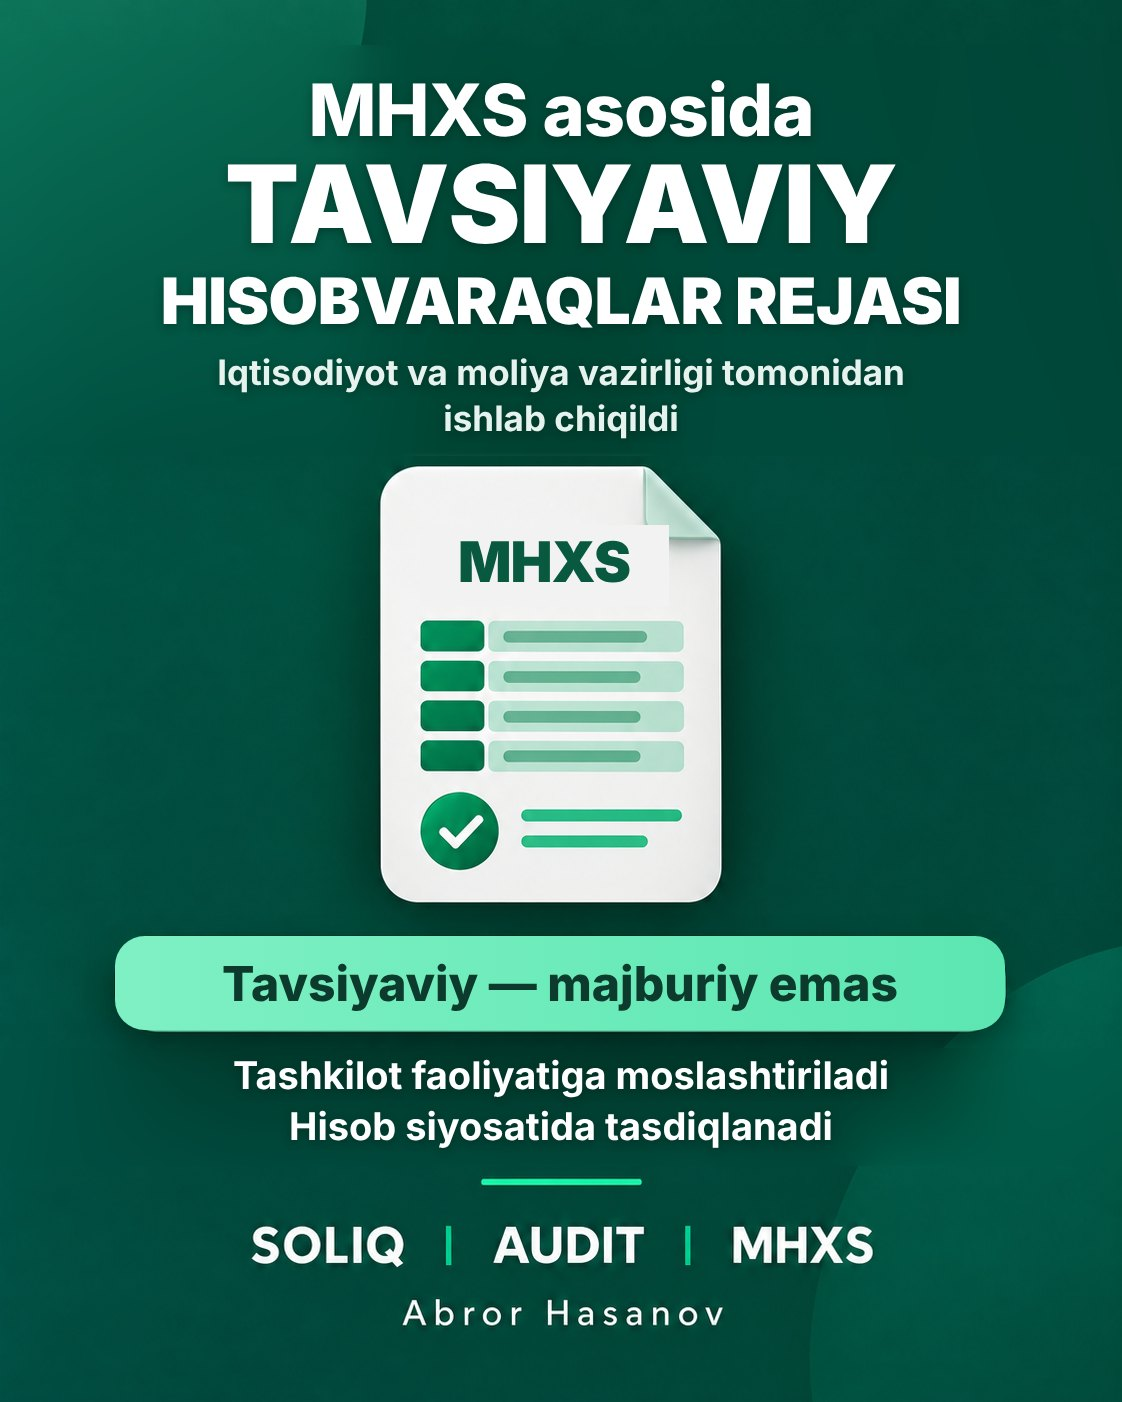
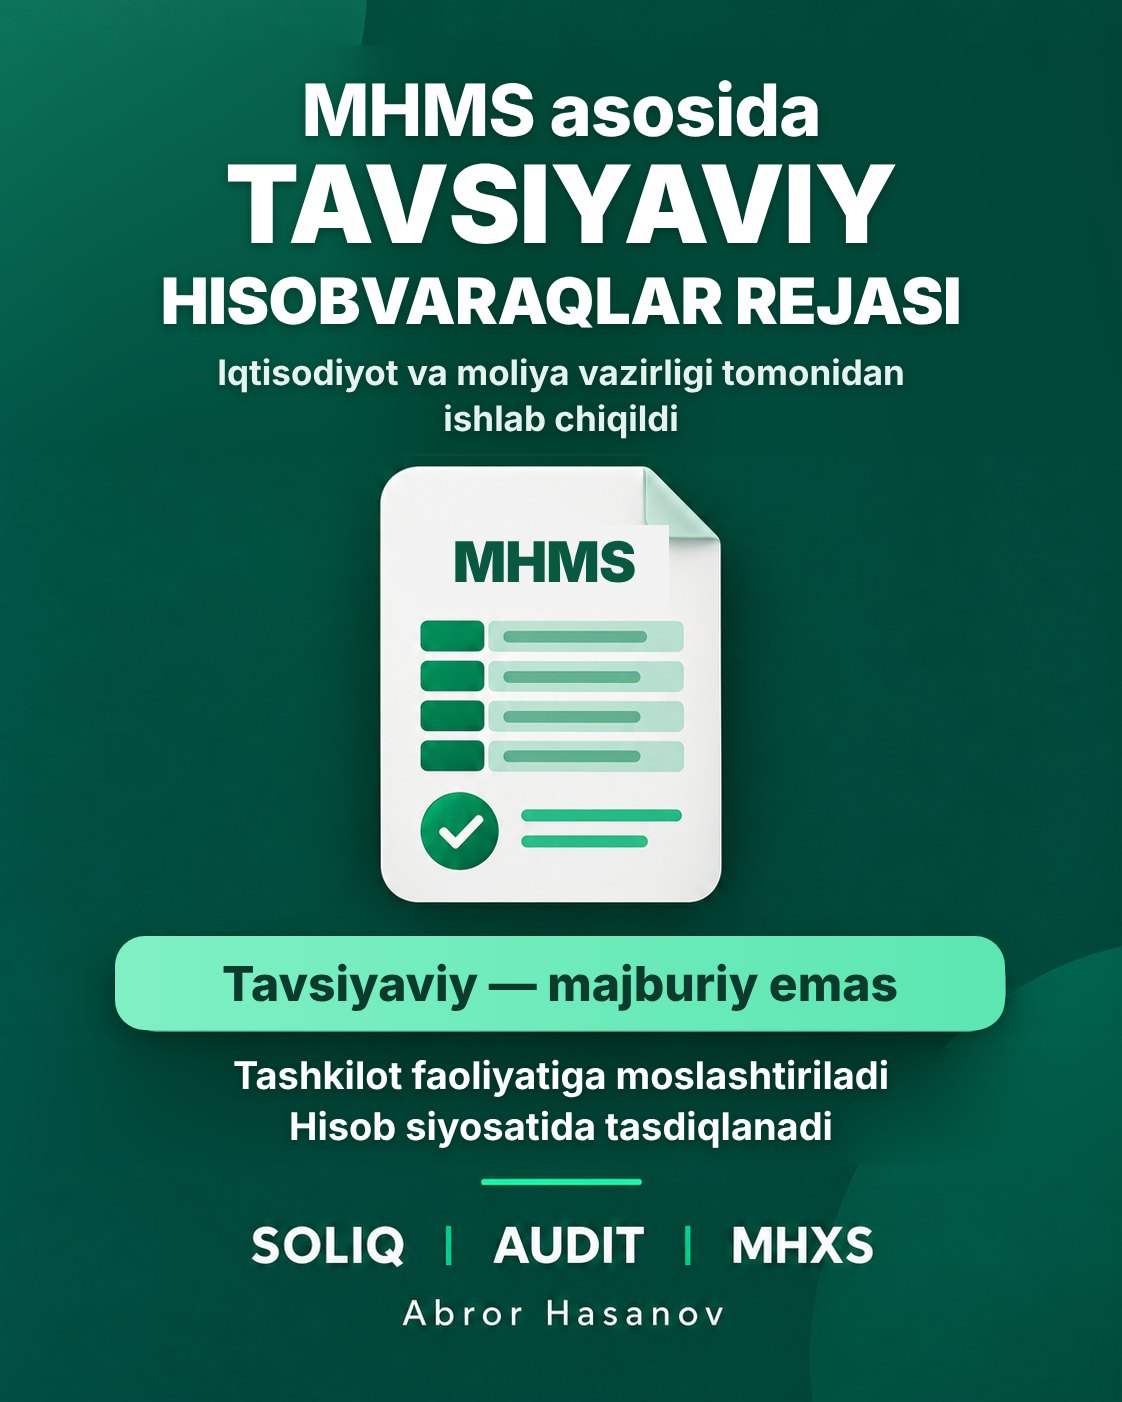
Yangilik: MHXS emas, MHMS (milliy standartlar) - tuzatish
Claude-Session: https://claude.ai/code/session_011KwqFmCfCz4kcwhFnpiM7H

Changed region(s): [[0.2496, 0.0613, 0.7487, 0.1227], [0.4055, 0.368, 0.5615, 0.4294]]

diff --git a/yangiliklar/index.html b/yangiliklar/index.html
@@ -7,8 +7,8 @@
 <link rel="canonical" href="https://abrorhasanov.uz/yangiliklar/">
 <meta property="og:type" content="article">
 <meta property="og:url" content="https://abrorhasanov.uz/yangiliklar/">
-<meta property="og:title" content="MHXS bo‘yicha tavsiyaviy hisobvaraqlar rejasi ishlab chiqildi">
-<meta property="og:description" content="Iqtisodiyot va moliya vazirligi MHXS asosida hisobot tayyorlaydigan tashkilotlar uchun tavsiyaviy hisobvaraqlar rejasini ishlab chiqdi.">
+<meta property="og:title" content="MHMS bo‘yicha tavsiyaviy hisobvaraqlar rejasi ishlab chiqildi">
+<meta property="og:description" content="Iqtisodiyot va moliya vazirligi MHMS asosida hisobot tayyorlaydigan tashkilotlar uchun tavsiyaviy hisobvaraqlar rejasini ishlab chiqdi.">
 <meta property="og:image" content="https://abrorhasanov.uz/yangiliklar/img/mhxs-hisobvaraqlar-rejasi.jpg">
 <meta name="twitter:card" content="summary_large_image">
 <link rel="icon" href="../apple-touch-icon.png">
@@ -62,12 +62,12 @@ footer{font-size:.82rem;color:var(--muted);border-top:1px solid var(--line);padd
 
   <article id="mhxs-hisobvaraqlar-rejasi">
     <time datetime="2026-11-04">4-noyabr, 2026</time>
-    <h2>MHXS bo‘yicha tavsiyaviy hisobvaraqlar rejasi ishlab chiqildi</h2>
-    <img src="img/mhxs-hisobvaraqlar-rejasi.jpg" alt="MHXS asosida tavsiyaviy hisobvaraqlar rejasi" width="1122" height="1402" loading="lazy">
-    <p>O‘zbekiston Respublikasi Iqtisodiyot va moliya vazirligi tomonidan MHXS asosida moliyaviy hisobot tayyorlaydigan tashkilotlar uchun tavsiyaviy hisobvaraqlar rejasi ishlab chiqildi.</p>
+    <h2>MHMS bo‘yicha tavsiyaviy hisobvaraqlar rejasi ishlab chiqildi</h2>
+    <img src="img/mhxs-hisobvaraqlar-rejasi.jpg" alt="MHMS asosida tavsiyaviy hisobvaraqlar rejasi" width="1122" height="1402" loading="lazy">
+    <p>O‘zbekiston Respublikasi Iqtisodiyot va moliya vazirligi tomonidan MHMS asosida moliyaviy hisobot tayyorlaydigan tashkilotlar uchun tavsiyaviy hisobvaraqlar rejasi ishlab chiqildi.</p>
     <p>Mazkur hujjat tashkilotlarga buxgalteriya hisobini tizimli tashkil etish va o‘z ishchi hisobvaraqlar rejasini shakllantirishda amaliy namuna bo‘lib xizmat qiladi.</p>
     <p>Hisobvaraqlar rejasi aktivlar, majburiyatlar, xususiy kapital, daromadlar, xarajatlar va balansdan tashqari hisobvaraqlarni qamrab oladi.</p>
-    <p class="note"><b>Muhim jihati:</b> hisobvaraqlar rejasi tavsiyaviy xususiyatga ega bo‘lib, tashkilotlar uchun majburiy hisobvaraqlar tizimini joriy etmaydi. Tashkilotlar uni o‘z faoliyati va qo‘llaydigan MHXS talablaridan kelib chiqib moslashtiradi hamda ishchi hisobvaraqlar rejasini hisob siyosatida tasdiqlaydi.</p>
+    <p class="note"><b>Muhim jihati:</b> hisobvaraqlar rejasi tavsiyaviy xususiyatga ega bo‘lib, tashkilotlar uchun majburiy hisobvaraqlar tizimini joriy etmaydi. Tashkilotlar uni o‘z faoliyati va qo‘llaydigan MHMS talablaridan kelib chiqib moslashtiradi hamda ishchi hisobvaraqlar rejasini hisob siyosatida tasdiqlaydi.</p>
     <p>Tashkilotlar va buxgalteriya hisobi mutaxassislariga tavsiyaviy hisobvaraqlar rejasi bilan tanishib chiqish hamda uni o‘z faoliyatida qo‘llash imkoniyatlarini ko‘rib chiqish tavsiya etiladi.</p>
     <a class="dl" href="files/MHMS_tavsiyaviy_Schetlar_rejasi_qollanma_2026_10_29.docx" download>Hujjatni yuklab olish (.docx)</a>
   </article>

diff --git a/index.html b/index.html
@@ -184,7 +184,7 @@ footer{font-size:.82rem;color:var(--muted);border-top:1px solid var(--line);padd
     <ul class="links">
       <li><a href="/yangiliklar/#mhxs-hisobvaraqlar-rejasi">
         <span class="ico"><svg viewBox="0 0 24 24" fill="none" stroke="currentColor" stroke-width="1.8" aria-hidden="true"><path d="M6 3h9l4 4v14H6z"/><path d="M14 3v5h5M9 12h7M9 16h7"/></svg></span>
-        <span class="lname">MHXS bo‘yicha tavsiyaviy hisobvaraqlar rejasi<span class="sub">4-noyabr, 2026 · hujjat ilova qilingan</span></span>
+        <span class="lname">MHMS bo‘yicha tavsiyaviy hisobvaraqlar rejasi<span class="sub">4-noyabr, 2026 · hujjat ilova qilingan</span></span>
         <span class="arrow" aria-hidden="true">→</span></a></li>
     </ul>
   </section>
